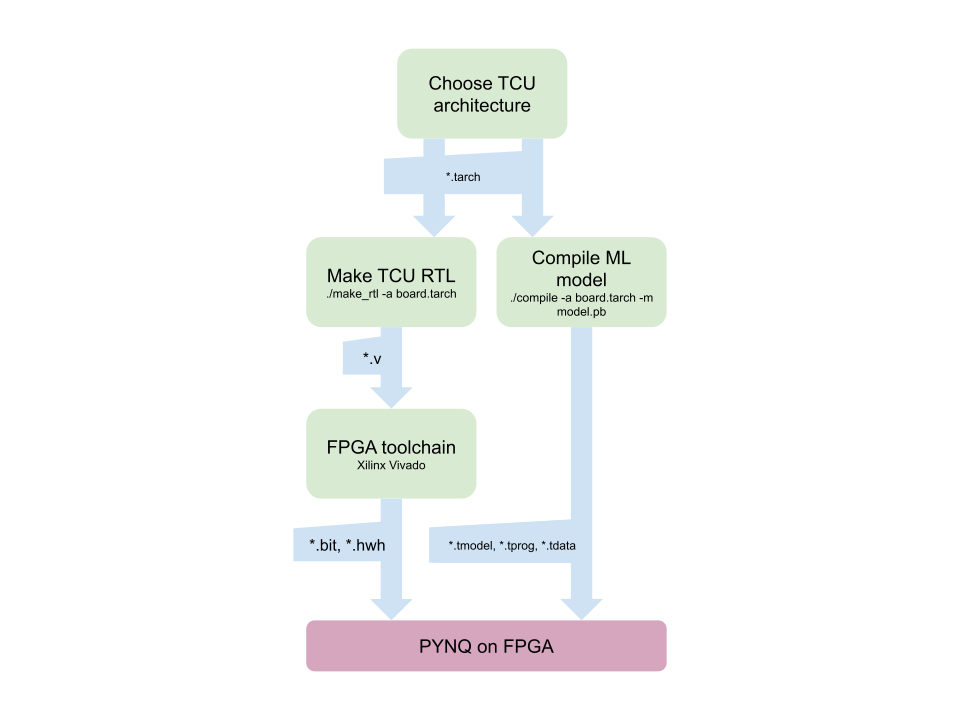
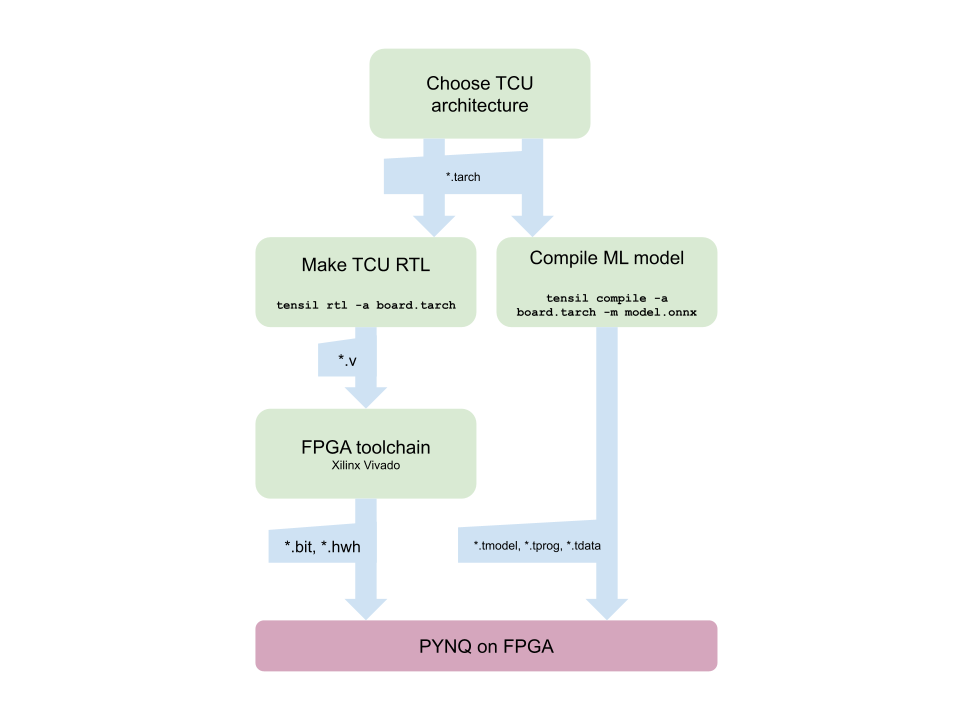
Docker interface

diff --git a/README.md b/README.md
@@ -9,15 +9,16 @@ Tensil
 
 ## Setup
 
-1. Download and install [OpenJDK 11 from Azul](https://www.azul.com/downloads/?version=java-11-lts&package=jdk);
+1. Pull and run [Tensil docker container](https://hub.docker.com/repository/docker/tensilai/tensil) (see below);
 2. Clone [Tensil models repo](https://github.com/tensil-ai/tensil-models) on the same level with this repo (optional - demo only);
 3. Download and install [Xilinx Vitis or Vivado](https://www.xilinx.com/support/download.html);
 4. Download and install [Xilinx PYNQ](http://www.pynq.io/board.html) for your FPGA development platform;
 5. Clone [Tensil PYNQ driver](https://github.com/tensil-ai/tensil-drivers) to `/home/xilinx` on your FPGA development platform.
 
-## Build command line tools
+## Pull and run docker container
 
-    $ ./mill '{rtl,tools}.assembly'
+    $ docker pull tensilai/tensil:latest
+    $ docker run -v $(pwd)/..:/workspace -w /workspace -it tensilai/tensil:latest bash
 
 ## Compile AI/ML model
 
@@ -25,11 +26,11 @@ Compile AI/ML model (ResNet20 v2 CIFAR) for specific TCU architecture and FPGA d
 
 #### From ONNX
 
-    $ ./compile -a ./arch/ultra96v2.tarch -m ../tensil-models/resnet20v2_cifar.onnx -o "Identity:0"
+    $ tensil compile -a ./tensil/arch/ultra96v2.tarch -m ./tensil-models/resnet20v2_cifar.onnx -o "Identity:0"
 
 #### From frozen TensorFlow graph
 
-    $ ./compile -a ./arch/ultra96v2.tarch -m ../tensil-models/resnet20v2_cifar.pb -o "Identity"
+    $ tensil compile -a ./tensil/arch/ultra96v2.tarch -m ./tensil-models/resnet20v2_cifar.pb -o "Identity"
 
 #### Other ML frameworks are supported by convering to ONNX
 
@@ -42,7 +43,7 @@ Compile AI/ML model (ResNet20 v2 CIFAR) for specific TCU architecture and FPGA d
 
 Make Verilog RTL for specific TCU architecture and FPGA development platform (Ultra96 v2) and 128-bit AXI interface to DDR memory.
 
-    $ ./make_rtl -a ./arch/ultra96v2.tarch -d 128
+    $ tensil rtl -a ./tensil/arch/ultra96v2.tarch -d 128
 
 ## Create Vivado design
 
@@ -56,13 +57,23 @@ Use PYNQ and Jupyter notebooks to run AI/ML model on FPGA.
 
 ![Resnet on PYNQ](/doc/resnet20_on_pynq.png)
 
-## Run full test suite
+## For maintainers
 
-#### Additional setup steps for running tests
+### Additional setup steps
 
-- Download and install [Verilator](https://verilator.org/guide/latest/install.html);
-- Clone [Tensil models repo](https://github.com/tensil-ai/tensil-models) on the same level with this repo.
+1. Download and install [OpenJDK 11 from Azul](https://www.azul.com/downloads/?version=java-11-lts&package=jdk);
+2. Download and install [Verilator](https://verilator.org/guide/latest/install.html);
+3. Clone [Tensil models repo](https://github.com/tensil-ai/tensil-models) on the same level with this repo.
 
-#### Run tests
+### Build command line tools
+
+    $ ./mill '{rtl,tools}.assembly'
+
+### Run full test suite
 
     $ ./mill __.test -l org.scalatest.tags.Slow
+
+### Build and push docker image
+
+    $ docker build -t tensilai/tensil .
+    $ docker push tensilai/tensil
